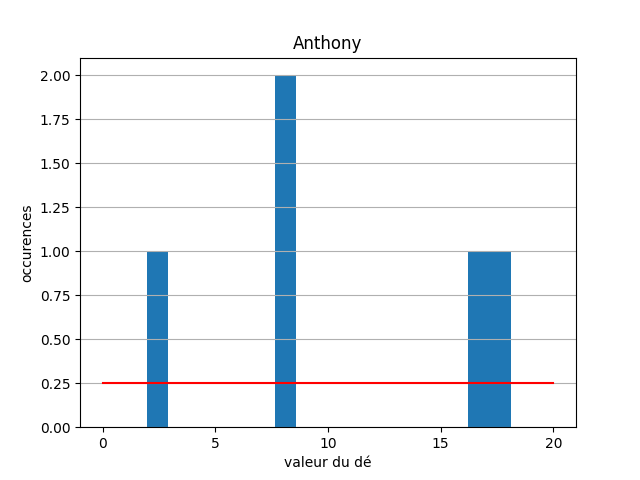
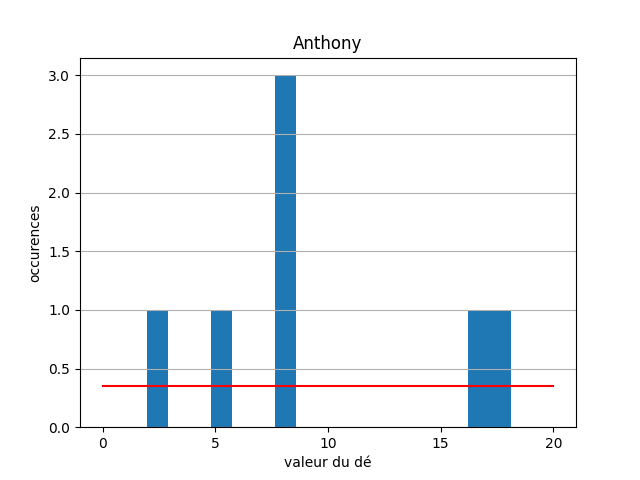
feat(add new dice system): add histogram generation with new game

diff --git a/app/controllers/mainController.js b/app/controllers/mainController.js
@@ -136,6 +136,7 @@ const mainController = {
     }
 
     dataMapper.updateGameFile(gameFile, rpg);
+    dataMapper.updateHistograms();
 
     res.redirect(`/campagne/${rpg}`);
   },
@@ -171,8 +172,6 @@ const mainController = {
         dicesList: []
       };
     });
-
-    console.log(campaignData);
 
     dataMapper.createGameFile(campaignData, form.slug);
 

diff --git a/app/models/datamapper.js b/app/models/datamapper.js
@@ -131,8 +131,6 @@ const dataMapper = {
       if (err) throw err;
     });
 
-     
-    
     console.info('Save updated.');
   },
   updateHistograms: () => {